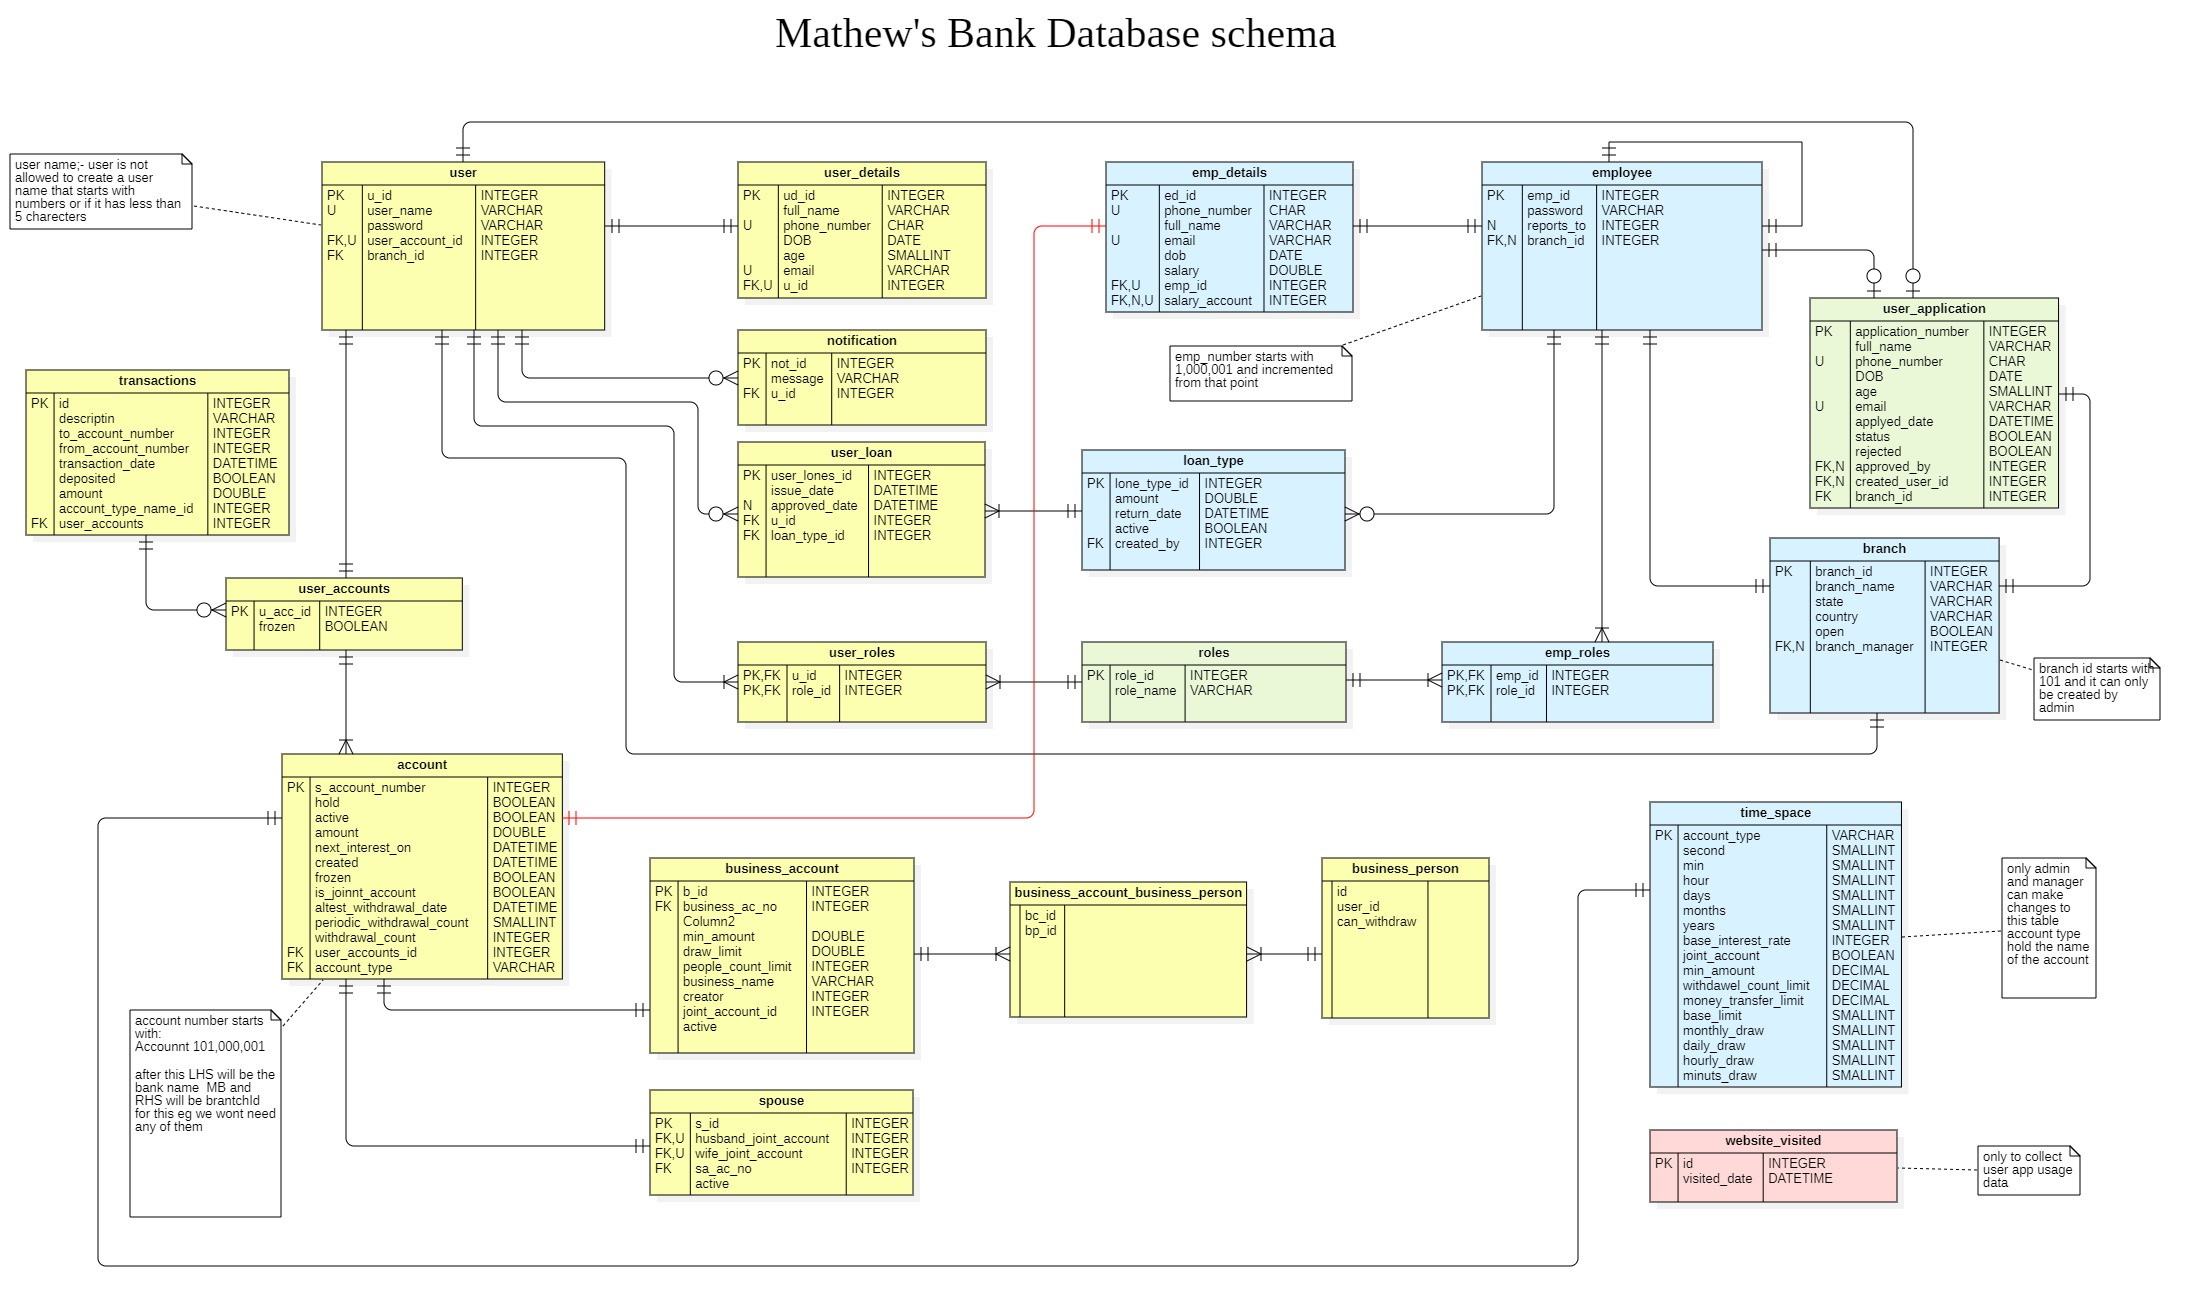
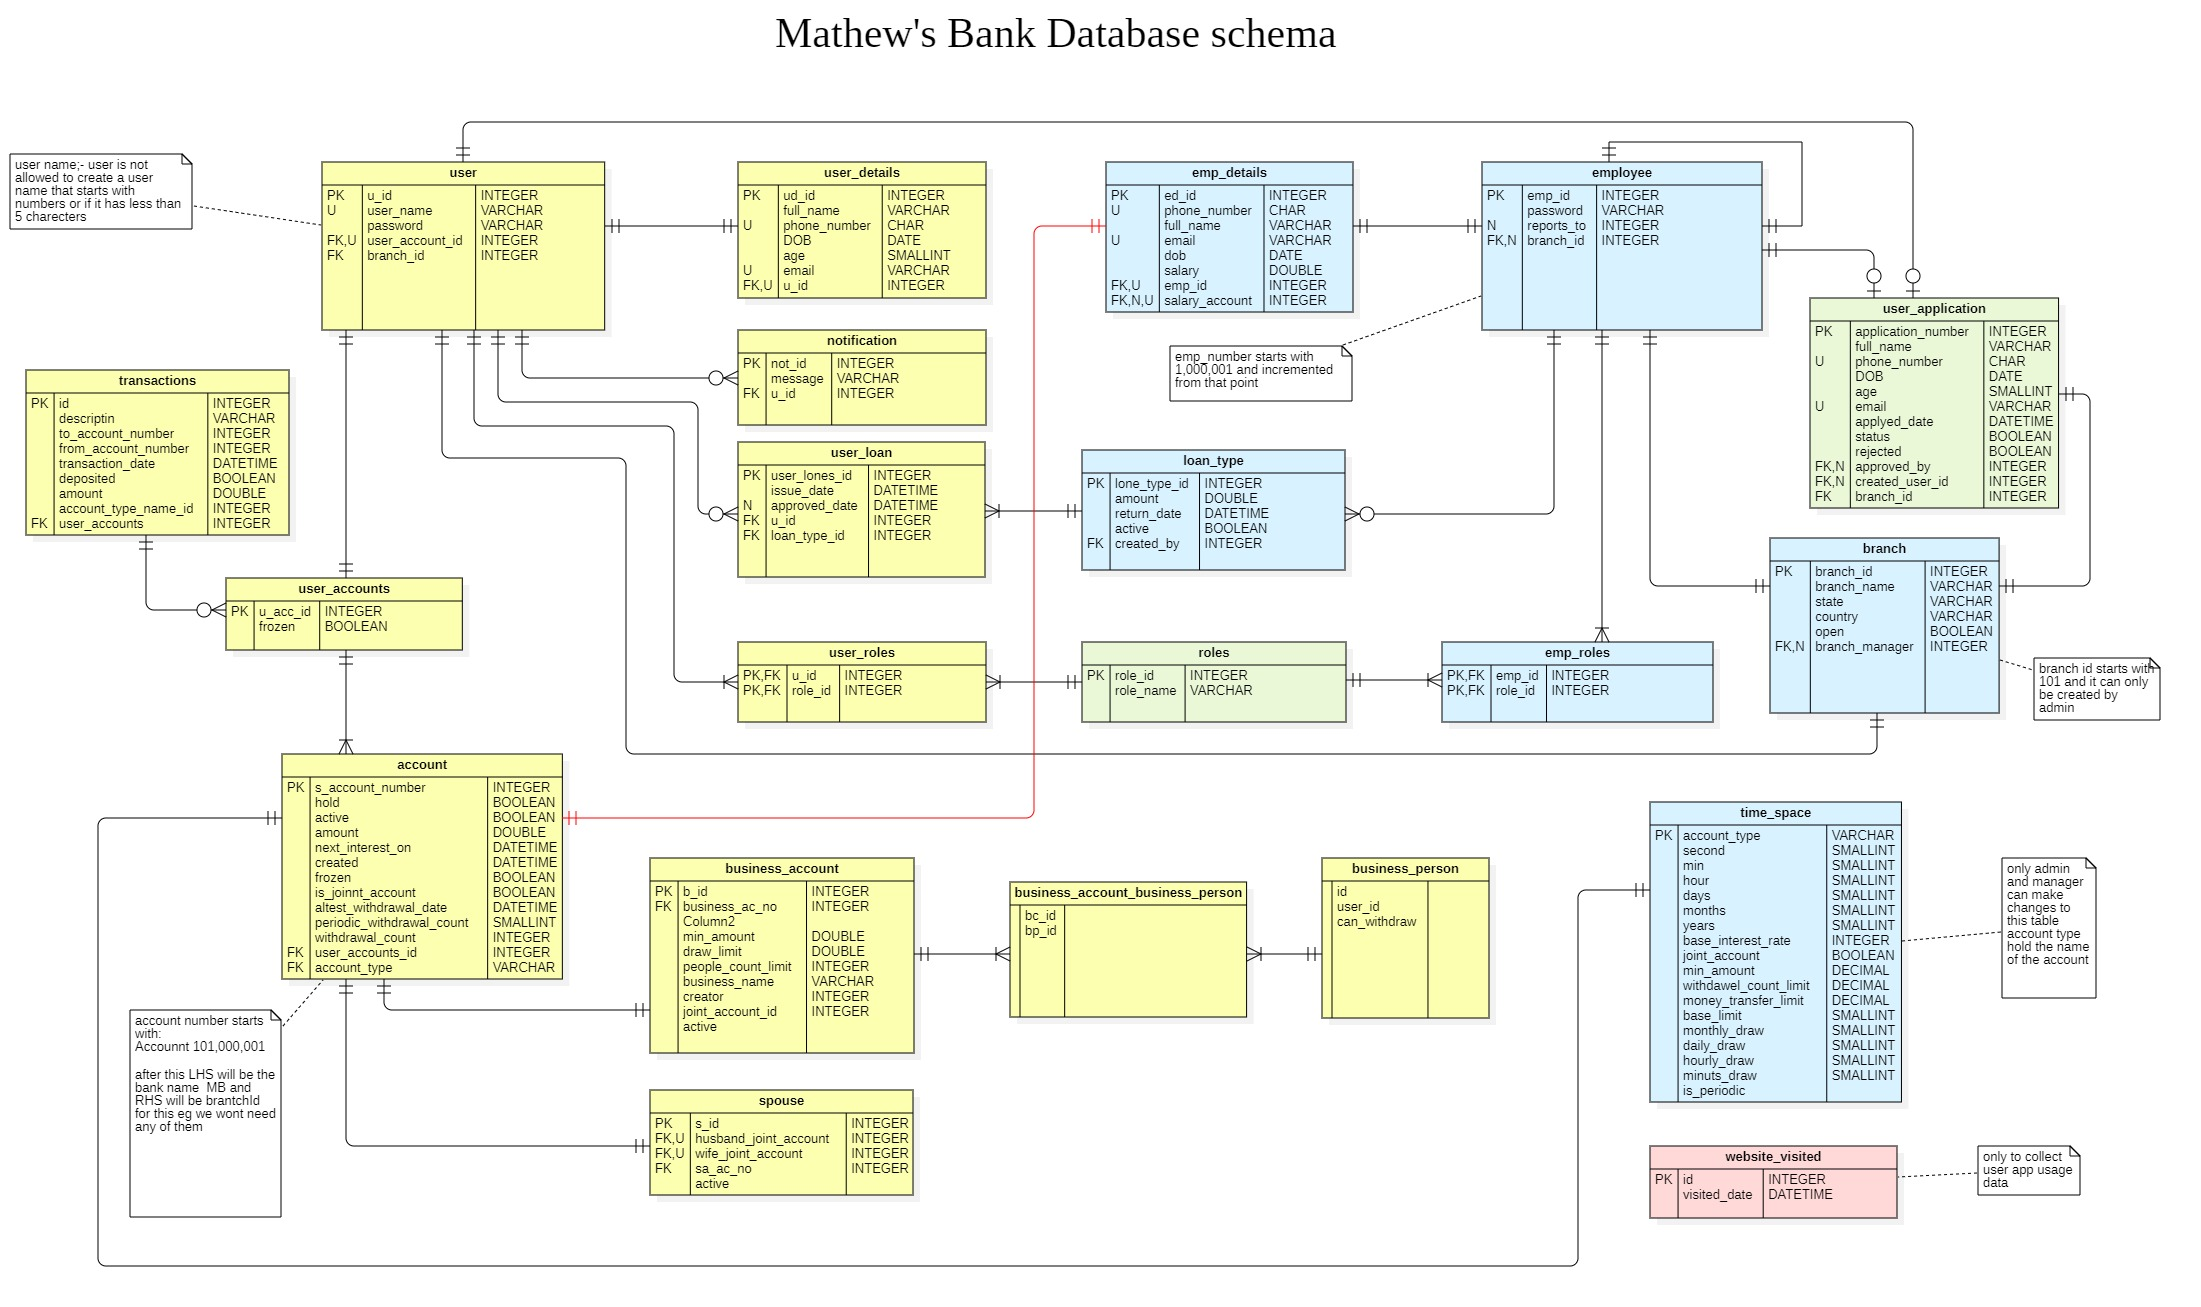
periodic update added with decimal place trim

Changed region(s): [[0.7415, 0.8263, 0.8651, 0.9487]]

diff --git a/The Application/back-end/spring/Mathew's-bank-back/Mathew-bank/src/main/java/com/mathew/bank/Mathewbank/entity/employeeOnlyEntity/TimeSpace.java b/The Application/back-end/spring/Mathew's-bank-back/Mathew-bank/src/main/java/com/mathew/bank/Mathewbank/entity/employeeOnlyEntity/TimeSpace.java
@@ -64,6 +64,9 @@ final public class TimeSpace {
     @Column(name = "minutes_draw")
     private int minutesDraw;
 
+    @Column(name = "is_periodic")
+    private boolean isPeriodic;
+
     //TODO may need to add a relationship back to the accounts
 
 
@@ -84,7 +87,7 @@ final public class TimeSpace {
     }
 
     public TimeSpace(String accountType, int second, int min, int hour, int days, int months, int years, double baseInterestRate, boolean isAJointAccount, double minStartingAmount,
-                     double withdrawalCountLimit, double moneyTransferLimit, int baseLimit, int monthlyDraw, int dailyDraw, int hourlyDraw, int minutesDraw) {
+                     double withdrawalCountLimit, double moneyTransferLimit, int baseLimit, int monthlyDraw, int dailyDraw, int hourlyDraw, int minutesDraw, boolean isPeriodic) {
         this.accountType = accountType;
         this.second = second;
         this.min = min;
@@ -103,6 +106,11 @@ final public class TimeSpace {
         this.dailyDraw = dailyDraw;
         this.hourlyDraw = hourlyDraw;
         this.minutesDraw = minutesDraw;
+        this.isPeriodic = isPeriodic;
+    }
+
+    public boolean isPeriodic() {
+        return isPeriodic;
     }
 
     public double getWithdrawalCountLimit() {

diff --git a/The Application/back-end/spring/Mathew's-bank-back/Mathew-bank/src/main/java/com/mathew/bank/Mathewbank/DAO/UserRepository.java b/The Application/back-end/spring/Mathew's-bank-back/Mathew-bank/src/main/java/com/mathew/bank/Mathewbank/DAO/UserRepository.java
@@ -304,6 +304,12 @@ public class UserRepository implements UserRepo {
                 amount,
                 fromAccountEntity.getUserAccounts(),
                 fromAccountEntity.getAccountType());
+        fromAccountEntity.setLastWithdrawalDate(LocalDateTime.now());
+        fromAccountEntity.setWithdrawalCount(fromAccountEntity.getPeriodicWithdrawalCount() + 1);
+        //if account is has a periodic_withdrawal_count then process accordingly
+        if(fromAccountEntity.getAccountType().isPeriodic()){
+            //process accordingly
+        }
         fromAccountEntity.getUserAccounts().setATransaction(userTransactionsFromAccount);
 
         //credit to user

diff --git a/The Application/back-end/spring/Mathew's-bank-back/Mathew-bank/src/main/java/com/mathew/bank/Mathewbank/service/AdminService.java b/The Application/back-end/spring/Mathew's-bank-back/Mathew-bank/src/main/java/com/mathew/bank/Mathewbank/service/AdminService.java
@@ -646,7 +646,7 @@ public class AdminService {
                 false,
                 new TimeSpace(
                         "savings", 0, 0, 0, 0, 1, 0, 0.07,false,2000.00,
-                        0,0,0,0,0,0,0
+                        0,0,0,0,0,0,0,false
                 ),
                 LocalDateTime.now(),
                 false
